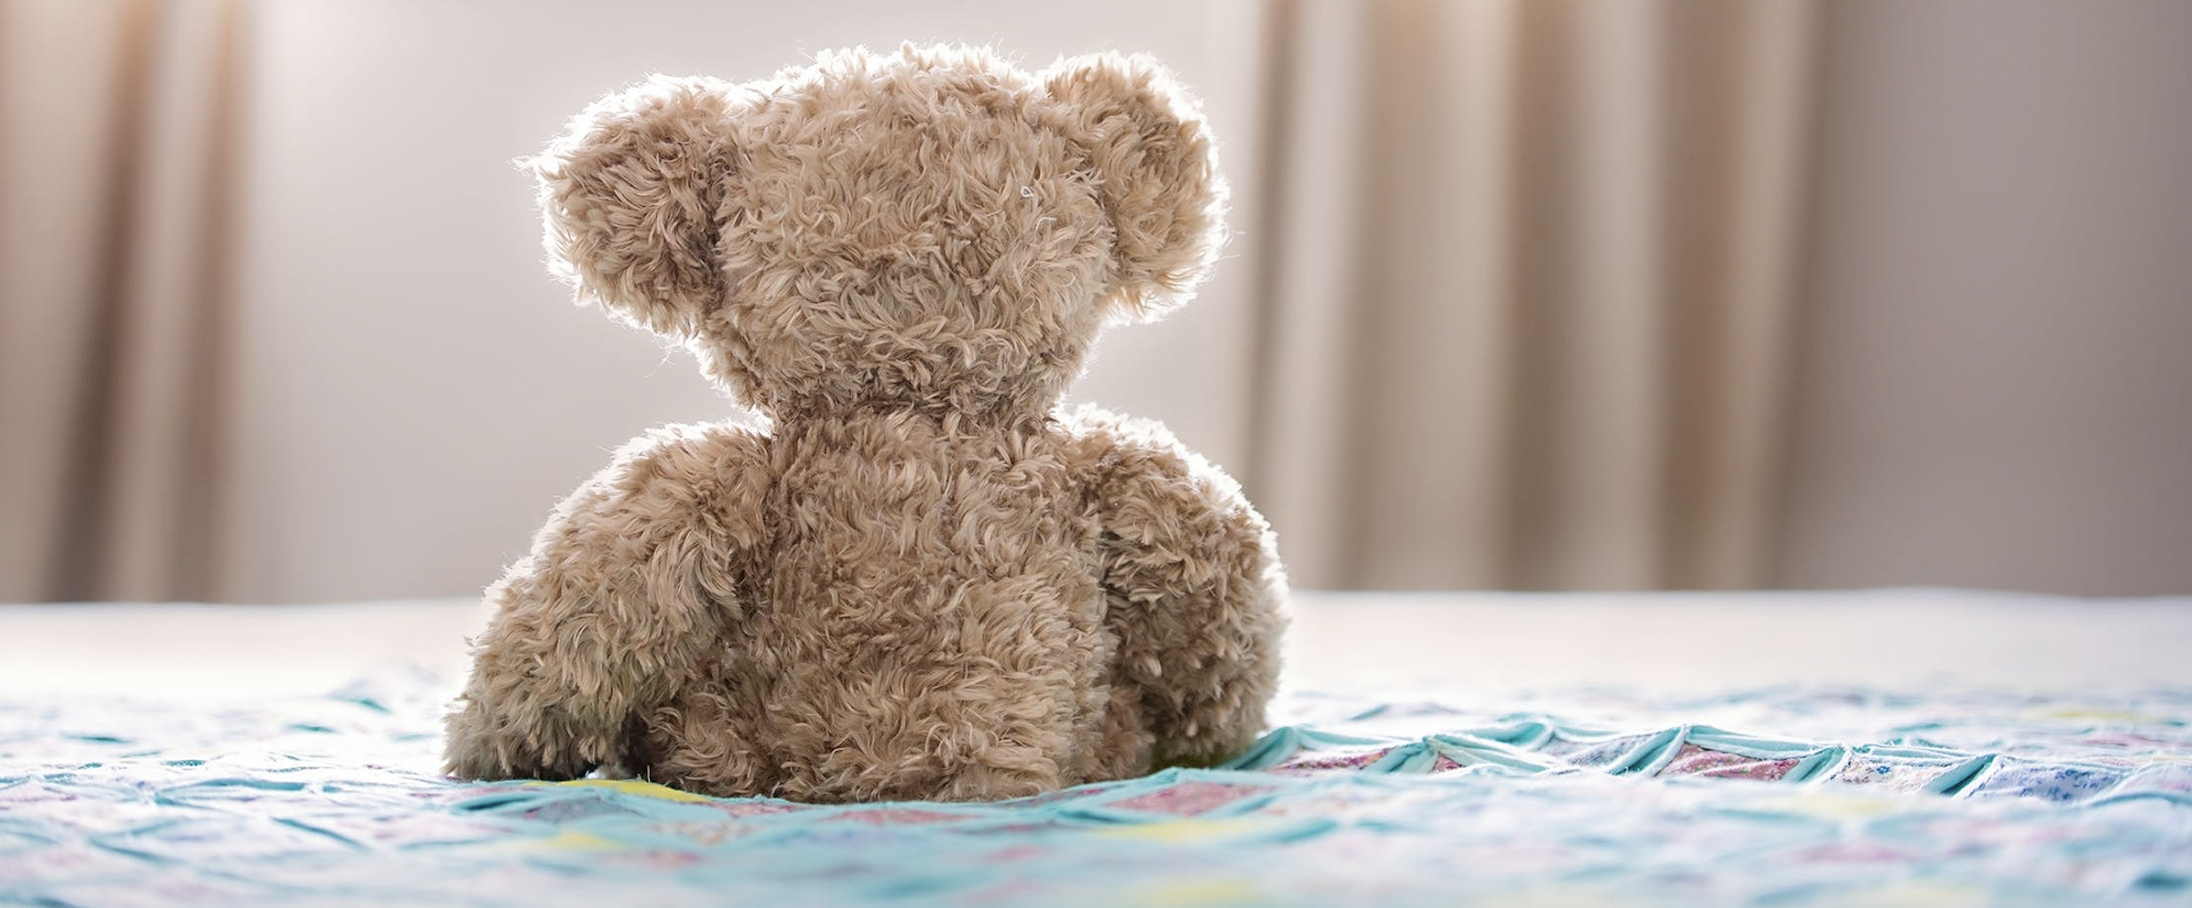
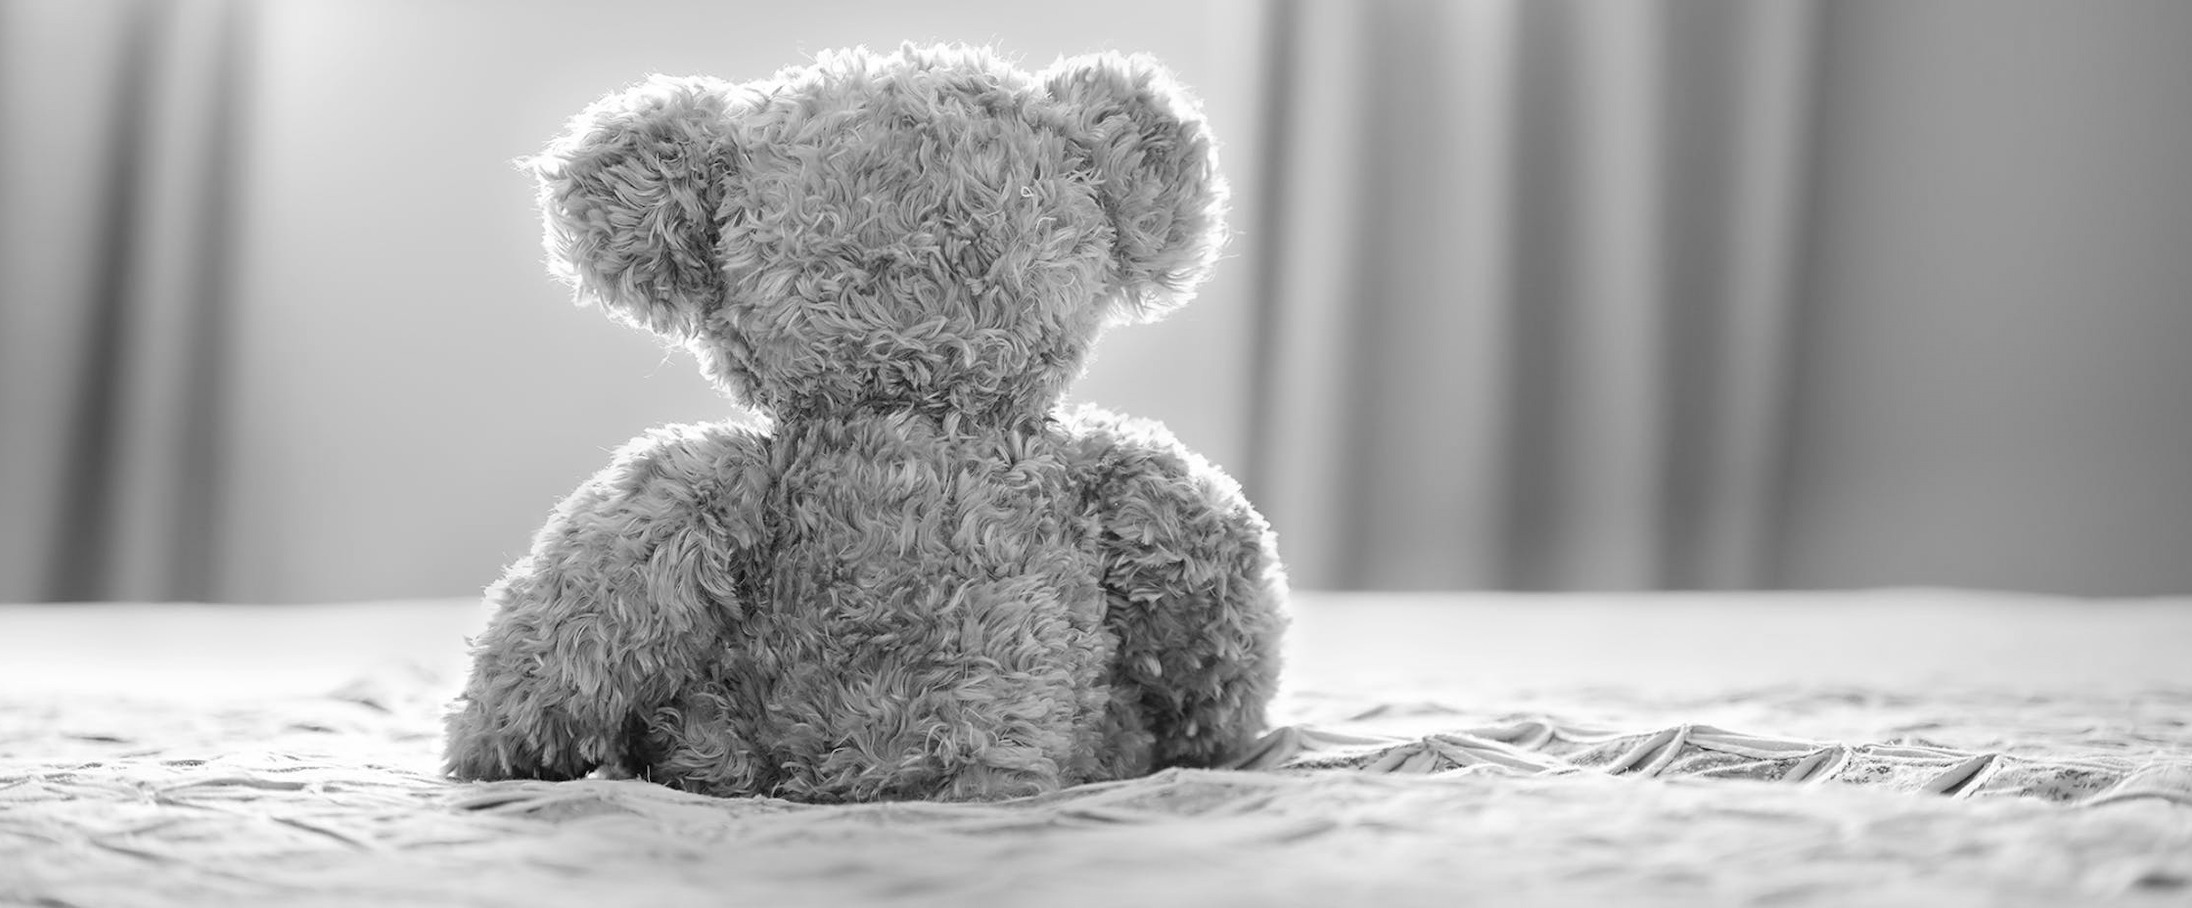
changement des images en noir et blanc

diff --git a/add.css b/add.css
@@ -1,12 +1,12 @@
 h5 {
-   font-weight: 8em; 
+   font-weight: 20em; 
    color : #2a1934;
    font-family: 'Dela Gothic One', cursive;
    border-top: #2a1934;
 }
 
 h5 + p {
-    font-weight: 10em; 
+    font-weight: 30em; 
     color : #190226;
     font-family: 'Hind', sans-serif;
     font-weight: bold;
